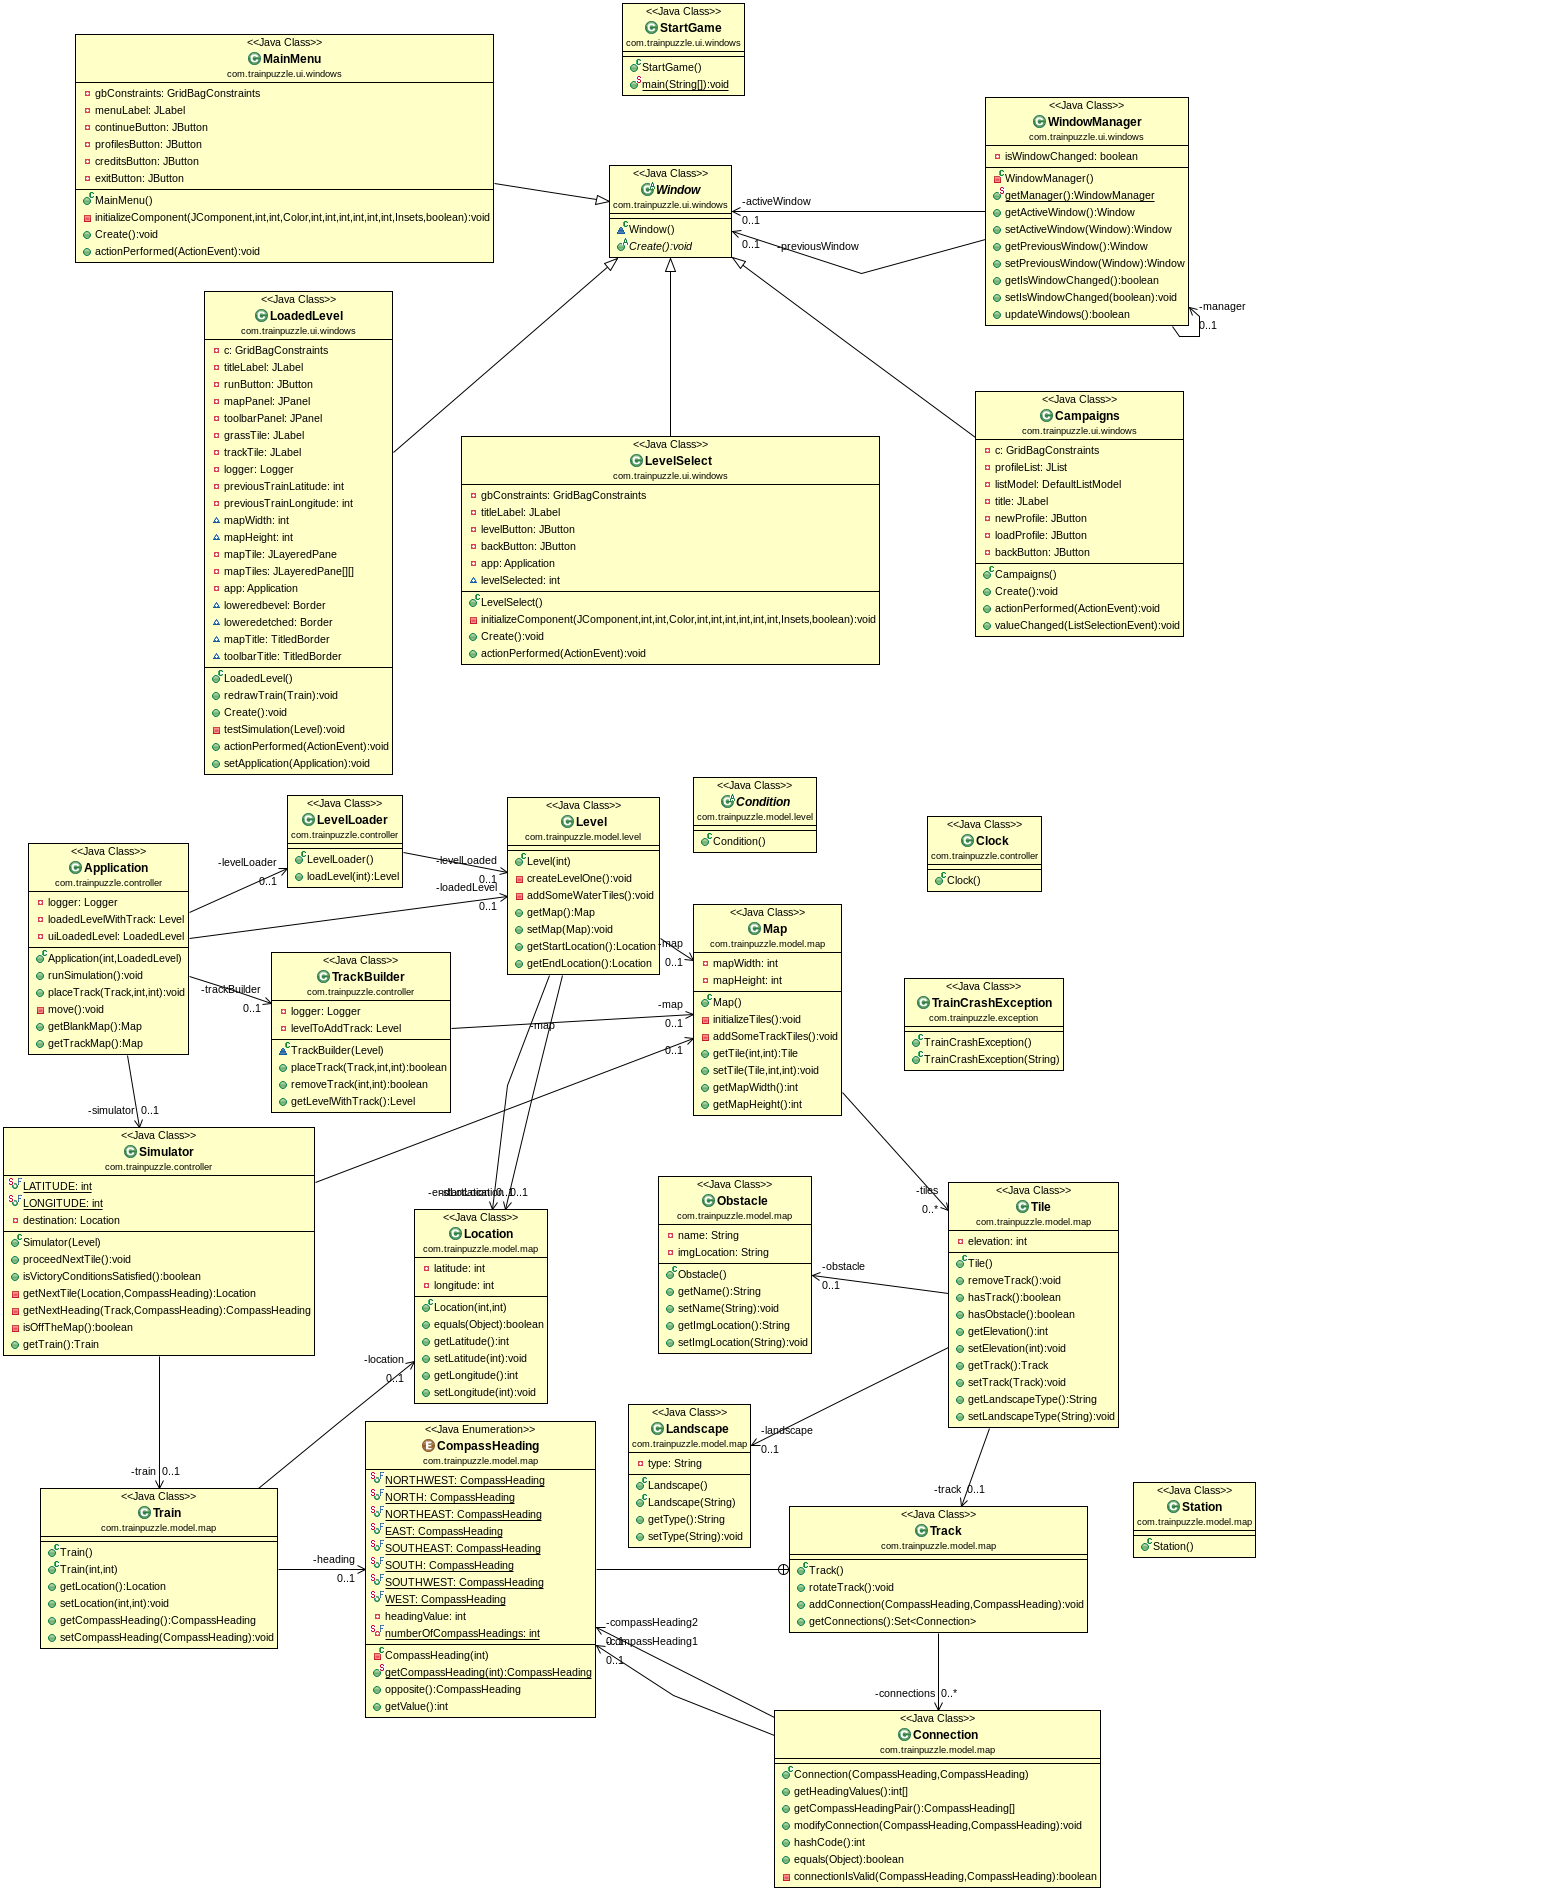
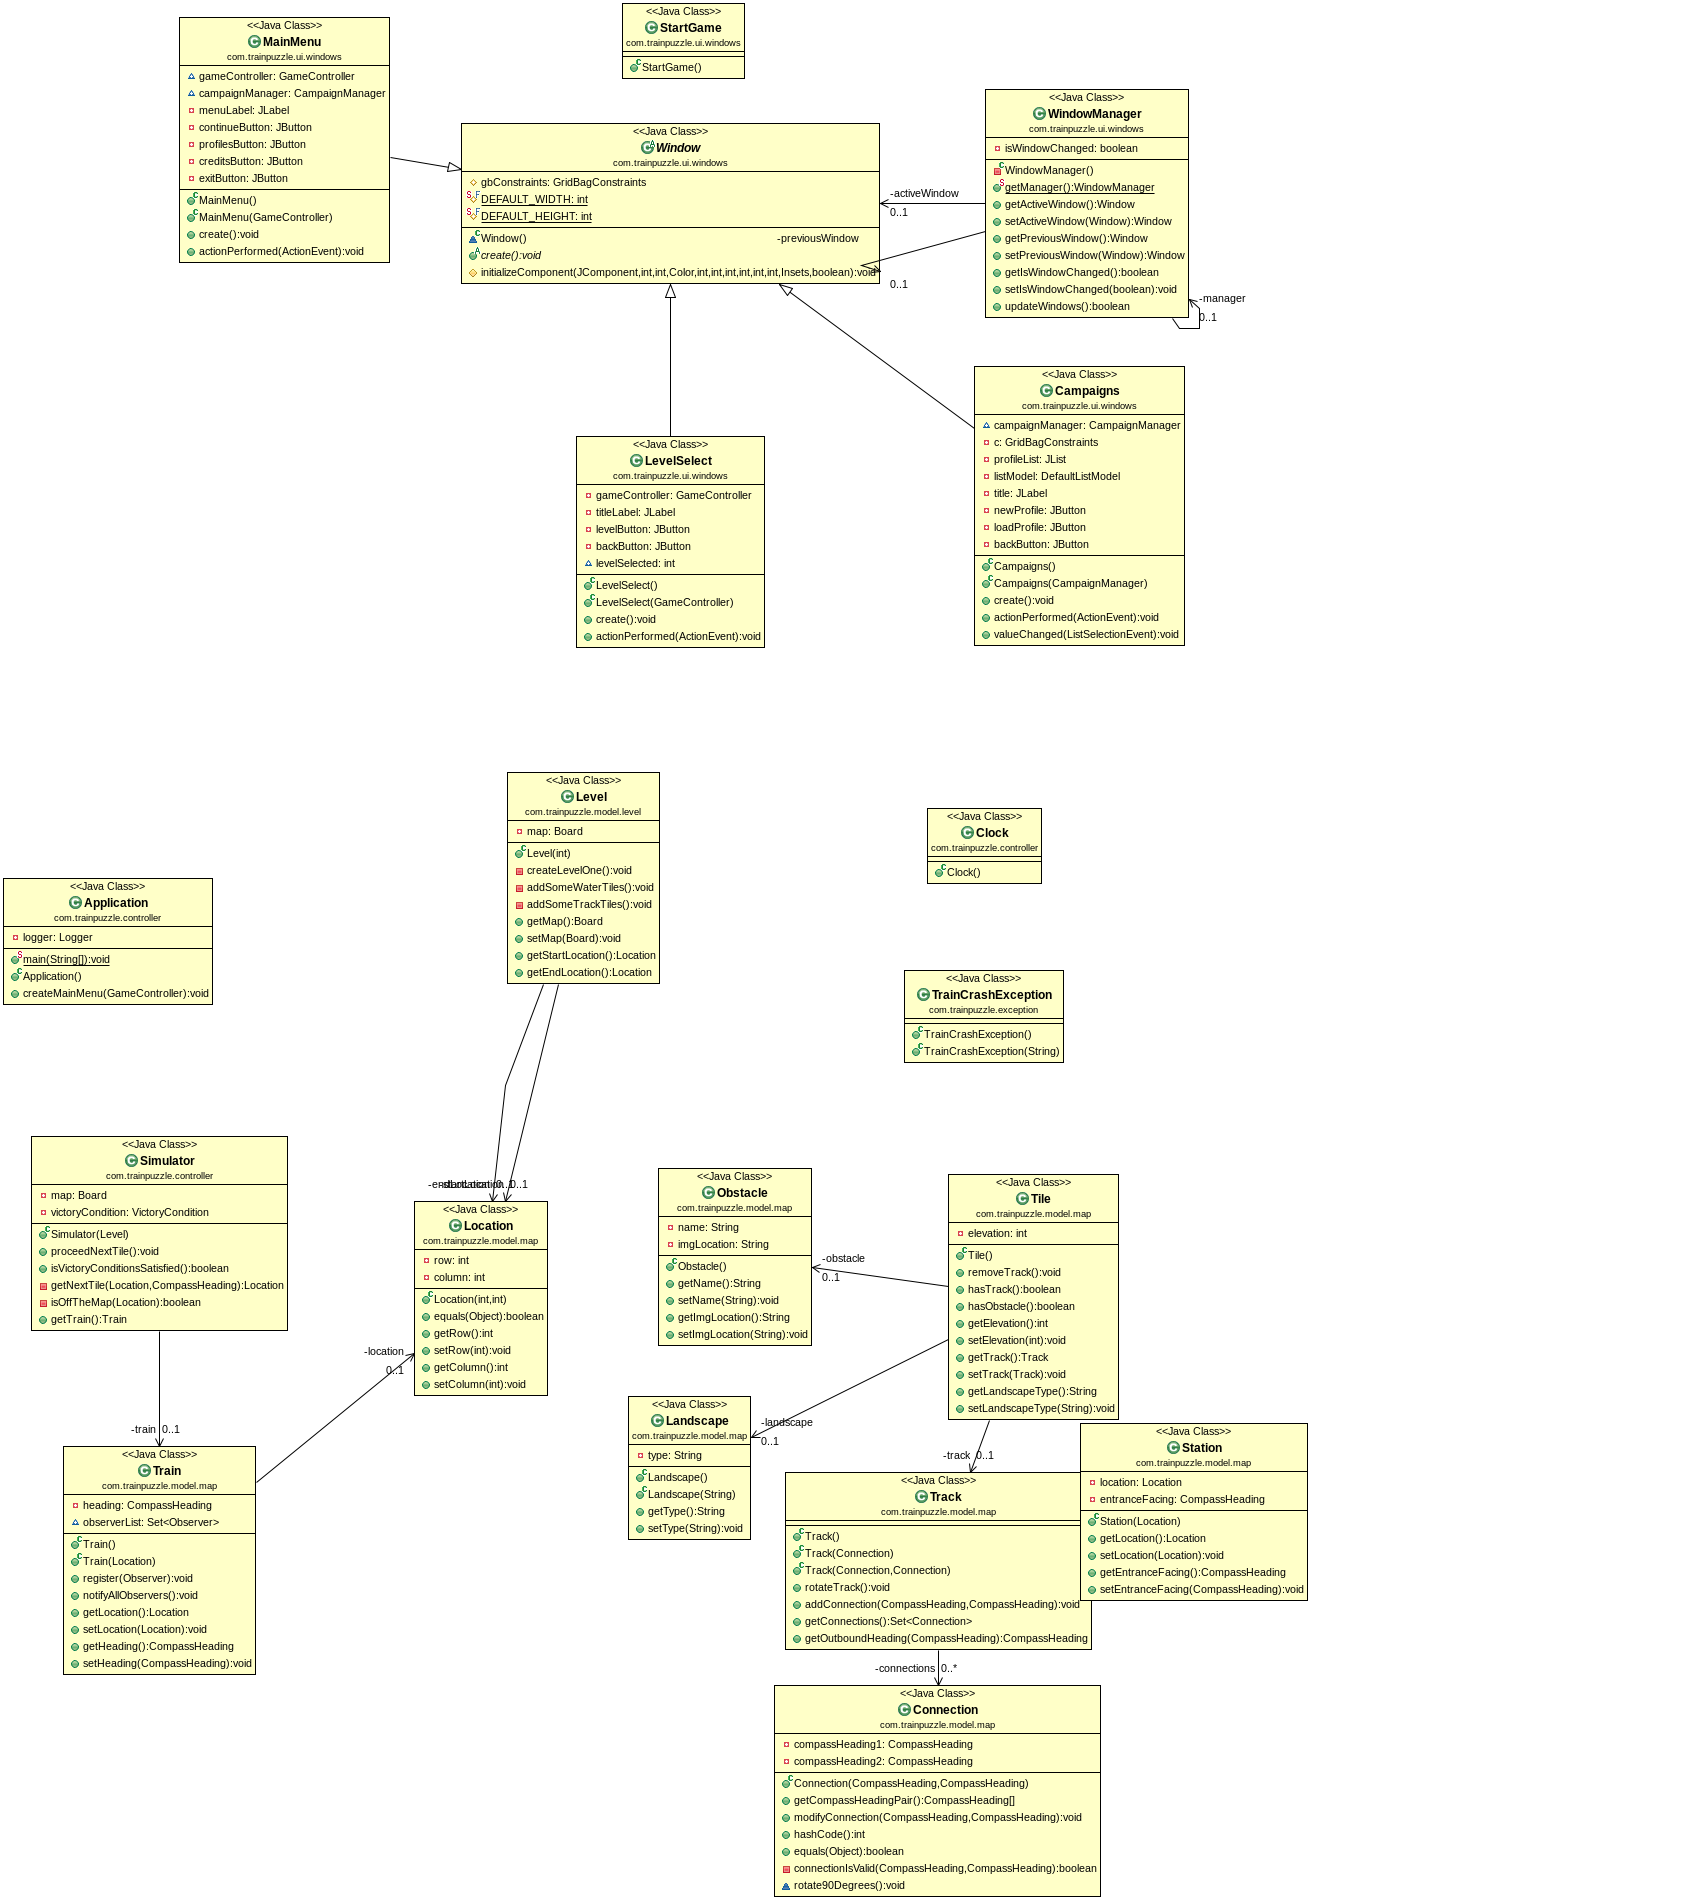
added rotateTrack Function in Tile
git-svn-id: https://punch.csil.sfu.ca/svn/CMPT373-2012-omega@304 5d30610d-6562-4147-a3b2-4cfa0469b359

diff --git a/TrainPuzzle/src/main/java/com/trainpuzzle/controller/TrackPlacer.java b/TrainPuzzle/src/main/java/com/trainpuzzle/controller/TrackPlacer.java
@@ -3,6 +3,7 @@ import org.apache.log4j.Logger;
 
 import com.trainpuzzle.exception.CannotPlaceTrackException;
 import com.trainpuzzle.exception.CannotRemoveTrackException;
+import com.trainpuzzle.exception.CannotRotateException;
 import com.trainpuzzle.model.level.Level;
 import com.trainpuzzle.model.map.*;
 
@@ -31,14 +32,28 @@ public class TrackPlacer {
 
 	public void removeTrack(int row, int column) throws CannotRemoveTrackException{
 		Tile tile = map.getTile(row, column);
-		if(!tile.hasTrack()||tile.hasObstacle()) {
-			throw new CannotRemoveTrackException("Track failed to be removed because there is no track at the tile to remove");
-		}
-		else {
+		if(tile.hasTrack()) {			
 			tile.removeTrack();
 			map.notifyAllObservers();
 			//map.setTile(tile,row,column); // can be removed because of passing by reference
 		}
+		else {
+			throw new CannotRemoveTrackException("Track failed to be removed because there is no track at the tile to remove");
+		}
+	}
+	
+	
+	public void rotateTrack(int row, int column) throws CannotRotateException{
+		Tile tile = map.getTile(row, column);
+		
+		if(tile.hasTrack()) {
+			tile.rotateTrack(); // TODO
+			map.notifyAllObservers();
+			//map.setTile(tile,row,column); // can be removed because of passing by reference		
+		}
+		else {
+			throw new CannotRotateException("No track to be rotated on this tile");
+		}		
 	}
 	
 	public Level getLevelWithTrack() {

diff --git a/TrainPuzzle/src/main/java/com/trainpuzzle/exception/CannotRotateException.java b/TrainPuzzle/src/main/java/com/trainpuzzle/exception/CannotRotateException.java
@@ -1,0 +1,16 @@
+package com.trainpuzzle.exception;
+
+public class CannotRotateException extends Exception{
+
+
+ private static final long serialVersionUID = 1L;
+
+		public CannotRotateException() {
+			super("Cannot rotate track");
+		}
+		
+		public CannotRotateException(String message) {
+			super(message);
+		}
+
+    }

diff --git a/TrainPuzzle/src/main/java/com/trainpuzzle/model/map/Tile.java b/TrainPuzzle/src/main/java/com/trainpuzzle/model/map/Tile.java
@@ -50,6 +50,9 @@ public class Tile {
 		this.track = track;
 	}
 	
+	public void rotateTrack() {
+		this.track.rotateTrack();
+	}
 	
 	public String getLandscapeType() {
 		return landscape.getType();
@@ -66,5 +69,7 @@ public class Tile {
 	public void setStation(Station station) {
 		this.station = station;
 	}
+
+
 	
 }
